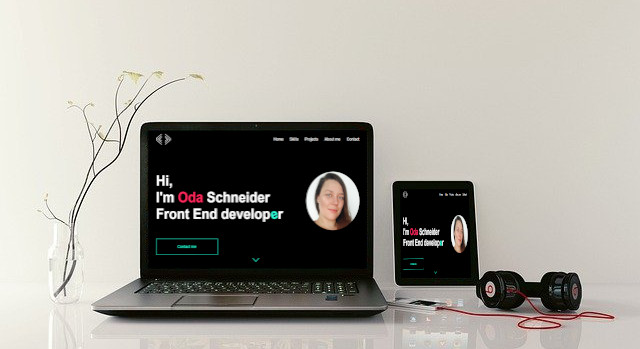
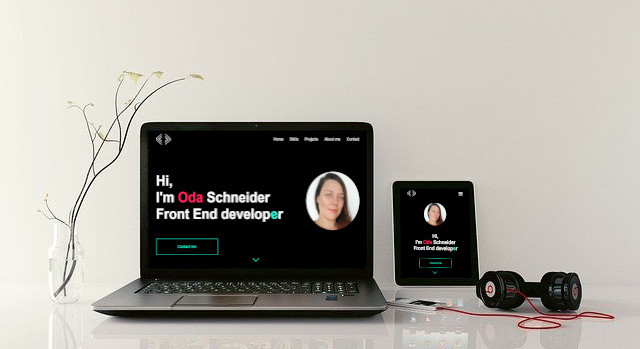
img projects responsive startpage

Changed region(s): [[0.625, 0.5444, 0.75, 0.7736], [0.625, 0.5444, 0.6562, 0.5731]]

diff --git a/src/app/startpage/startpage.component.scss b/src/app/startpage/startpage.component.scss
@@ -101,6 +101,7 @@
 
         h1{
             font-size: 40px;
+            white-space: nowrap;
         }
 
         img{
@@ -167,6 +168,7 @@
 
     .upperContainer{
         h1{
+            white-space: normal;
             width: 140px;
         }
     }
